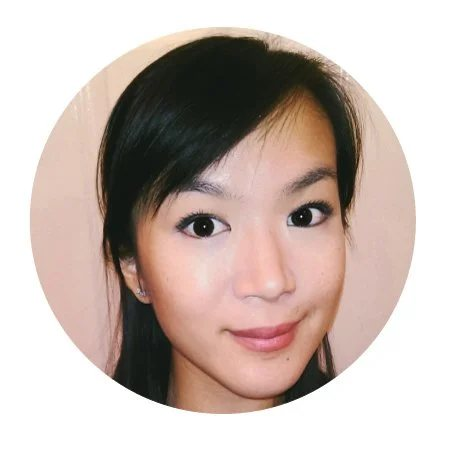
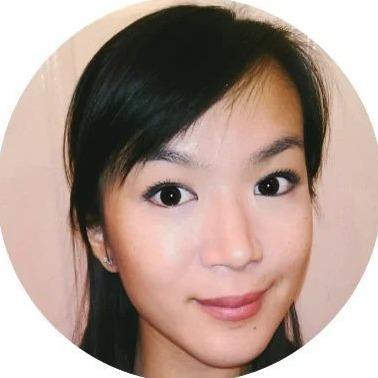
About v1.19: re-crop Maria Leung's photo to remove the white ring
Claude-Session: https://claude.ai/code/session_012BtyR2i9F3thygBCepPExM

diff --git a/README.md b/README.md
@@ -20,7 +20,7 @@ Versions: drafts are v0.x. The approved version is v1.0. Amendments after approv
 | For patients | `/for-patients` | v1.12 | 15 Nov 2026 | `for-patients/index.html` | `YYYYMMDD-hub-for-patients.html`, saved nightly |
 | For professionals | `/for-professionals` | v1.13 | 15 Nov 2026 | `for-professionals/index.html` | `YYYYMMDD-hub-for-professionals.html`, saved nightly |
 | virtual Grand Rounds | `/virtual-grand-rounds` | v1.10 | 15 Nov 2026 | `virtual-grand-rounds/index.html` | `YYYYMMDD-hub-virtual-grand-rounds.html`, saved nightly |
-| About | `/about` | v1.18 | 16 Nov 2026 | `about/index.html` | `YYYYMMDD-hub-about.html`, saved nightly |
+| About | `/about` | v1.19 | 16 Nov 2026 | `about/index.html` | `YYYYMMDD-hub-about.html`, saved nightly |
 | Contact | `/contact-us` | v1.6 | 15 Nov 2026 | `contact-us/index.html` | `YYYYMMDD-contact.html`, saved nightly |
 | Personalised care | `/personalised-care` | v1.8 | 15 Nov 2026 | `personalised-care/index.html` | not yet saved to Drive (see "Patient guides") |
 | Site map (planning document, not a web page) | none | agreed | 25 Oct 2026 | none | `20261025-sitemap.html` |
@@ -43,6 +43,7 @@ These four, and the approved Personalised care page, use one shared design, `_la
 
 ### Amendment history
 
+- **About v1.19, 16 Nov**: Maria Leung's photo re-cropped. The file had been saved already cut into a circle on a white square, with the circle slightly off-centre, so the page's own circle showed an uneven white ring (Professor Lim noticed). It is now cropped tightly to her photo circle (378 by 378), centred, with no other change. **Team photos should be supplied as ordinary square photos, not pre-cut circles**: the page makes the circle.
 - **About v1.18, 16 Nov**: Christopher Arumugam's photo added to My team (`assets/team/christopher-arumugam.jpg`, supplied by Professor Lim, cropped square to 800 by 800 for the circle, no other change). The page already pointed at this file, so only the picture is new. Still needed: Sarah Booth, Michael Evans and Paulo De Sousa.
 - **Testimonials by email: on request, not daily (15 Nov)**: later the same day Professor Lim decided a daily run is not needed, as testimonials are infrequent. He forwards the email and tells Claude to update. The stored task is kept with its schedule switched off; the rules are in `CLAUDE.md`. This supersedes the daily timing in the entry below.
 - **Testimonials by email switched on, 15 Nov**: a scheduled task in Professor Lim's Claude account, "Website testimonials by email", runs daily at 4:33pm UK time. It reads emails forwarded to his Gmail `+testimonials` address, adds the patient's words to `_data/testimonials.yml` (verbatim, `treatment` empty), pushes, checks the build, and emails a confirmation. His choices: publish then notify; ask him only when there is a question. Only forwards from his own address or from Maria's NHS address are published (a safeguard; the addresses are in the task, not in this repository); consent must be visible in the thread or given as a first line `Consent: yes`. Gmail labels "Website testimonials/Published" and "/Query" record what was done. The task's instructions live in the task itself; details for the team are in `docs/managers-guide.md`, section 5. **Any Claude session: commits named "Add testimonial from ..." come from this task; pull before you push.**

diff --git a/assets/team/README.md b/assets/team/README.md
@@ -10,6 +10,6 @@ One photo per team member, used in My team on the About page.
 
 ## Naming
 
-Use the person's name, e.g. `sarah-booth.jpg`. Square photos work best (they are shown in a circle), at least 600 by 600 pixels. Until a photo is added, the site shows the person's initials.
+Use the person's name, e.g. `sarah-booth.jpg`. Square photos work best (they are shown in a circle). Use an ordinary square photo, not one already cut into a circle, or a white ring shows around it, at least 600 by 600 pixels. Until a photo is added, the site shows the person's initials.
 
 Always use lower case, with hyphens instead of spaces, and no other punctuation. To replace a picture, upload a new file **with exactly the same name**: the site picks it up automatically. Keep each file under 500 KB if you can.
